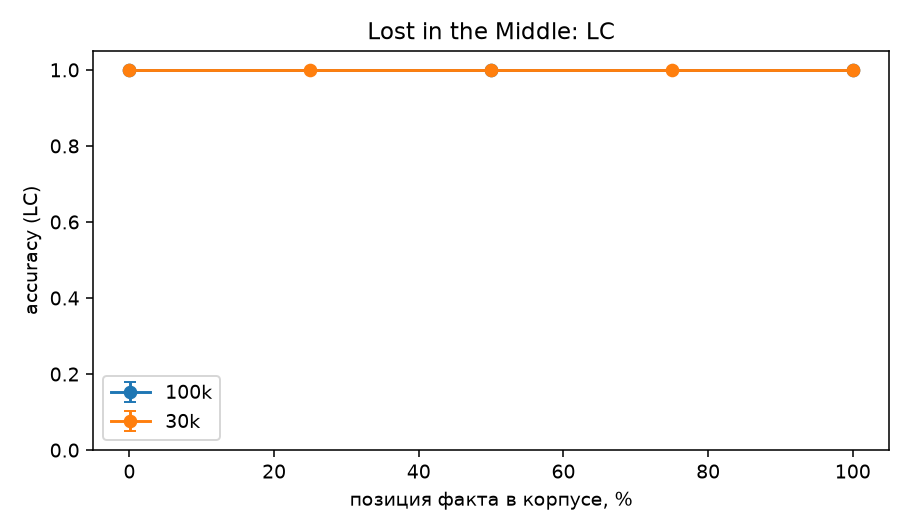
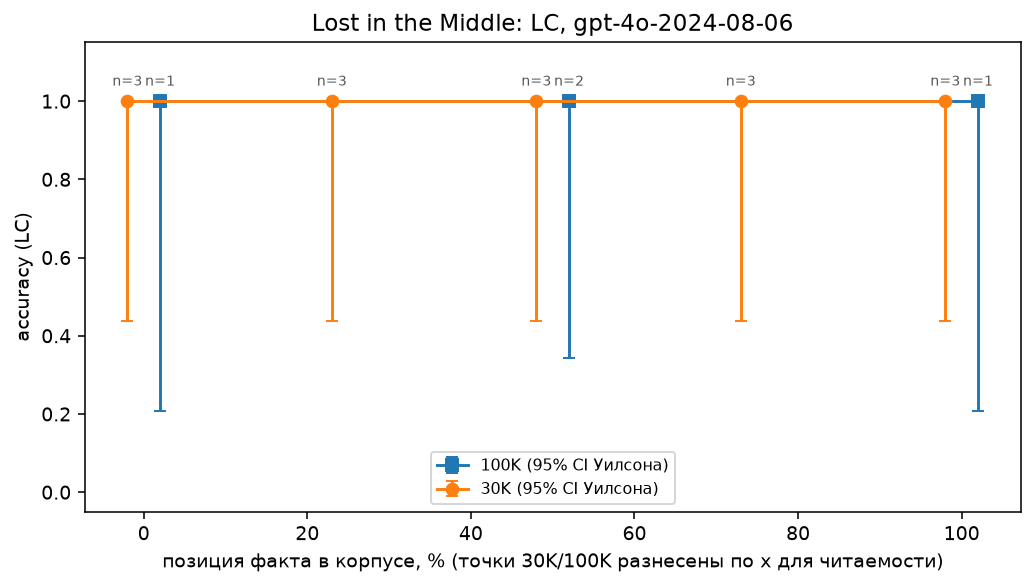
Judge calibration (n=40), charts per model, CI wording fixes

Changed region(s): [[0.0, 0.0, 1.0, 0.9925]]

diff --git a/src/eval/aggregate.py b/src/eval/aggregate.py
@@ -101,27 +101,95 @@ def summarize(df: pd.DataFrame, by: list[str]) -> pd.DataFrame:
     return out.reset_index()
 
 
+MODEL_ORDER = ["gpt-4o-2024-08-06", "gpt-4o-mini-2024-07-18"]
+SIZE_ORDER = ["8k", "30k", "100k"]
+METHOD_ORDER = ["lc", "bm25", "emb"]
+METHOD_LABEL = {"lc": "LC", "bm25": "BM25", "emb": "EMB"}
+METHOD_COLOR = {"lc": "#4C72B0", "bm25": "#DD8452", "emb": "#55A868"}
+ZERO_MARK_H = 0.02   # высота видимого столбика-маркера для accuracy == 0 (иначе bar высотой 0 не виден)
+
+
+def _models_present(df: pd.DataFrame) -> list[str]:
+    have = set(df["model"].unique())
+    return [m for m in MODEL_ORDER if m in have] + sorted(have - set(MODEL_ORDER))
+
+
+def _bar_panel(ax, sub: pd.DataFrame, value_col: str, sizes: list[str], methods: list[str],
+               log: bool = False, no_data_y: float | None = None) -> None:
+    """Сгруппированные столбцы method x size с явной отметкой нулей и отсутствующих данных.
+
+    На линейной шкале accuracy=0 рисуется видимым коротким столбиком с подписью «0.00»
+    (столбик высотой 0 иначе не виден и неотличим от «нет данных»). Если ячейки method x size
+    вообще нет в данных ИЛИ значение NaN (например $/correct при n_correct=0) — подпись
+    «нет данных» вместо столбика.
+    """
+    n_m = len(methods)
+    width = 0.8 / n_m
+    for mi, method in enumerate(methods):
+        for si, size in enumerate(sizes):
+            xpos = si + (mi - (n_m - 1) / 2) * width
+            row = sub[(sub["size"] == size) & (sub["method"] == method)]
+            val = row[value_col].iloc[0] if not row.empty else np.nan
+            if row.empty or pd.isna(val):
+                y = no_data_y if no_data_y is not None else (0.03 if not log else ax.get_ylim()[0])
+                ax.text(xpos, y, "нет данных", ha="center", va="bottom", fontsize=6.5,
+                        rotation=90, color="#888888")
+                continue
+            if not log and val == 0:
+                ax.bar(xpos, ZERO_MARK_H, width=width * 0.9, color=METHOD_COLOR[method])
+                ax.text(xpos, ZERO_MARK_H + 0.015, "0.00", ha="center", va="bottom", fontsize=7)
+            else:
+                ax.bar(xpos, val, width=width * 0.9, color=METHOD_COLOR[method])
+    ax.set_xlim(-0.5, len(sizes) - 0.5)   # фиксируем ширину панели независимо от того, что отрисовано
+    ax.set_xticks(range(len(sizes)))
+    ax.set_xticklabels([s.upper() for s in sizes])
+
+
+def _method_legend(fig) -> None:
+    handles = [plt.Rectangle((0, 0), 1, 1, color=METHOD_COLOR[m]) for m in METHOD_ORDER]
+    fig.legend(handles, [METHOD_LABEL[m] for m in METHOD_ORDER], loc="upper center",
+               ncol=len(METHOD_ORDER), bbox_to_anchor=(0.5, 1.02), frameon=False)
+
+
 def charts(df: pd.DataFrame):
     (RES / "charts").mkdir(parents=True, exist_ok=True)
     main_ = df[(df.get("target_pct").isna() if "target_pct" in df else True) & df.k_label.isna() | df.method.ne("lc") & df.k_label.eq(8)]
     main_ = main_[main_.get("target_pct", pd.Series(index=main_.index, dtype=float)).isna()] if "target_pct" in main_ else main_
     if main_.empty:
         return
-    s = summarize(main_, ["size", "method", "type"])
-    fig, ax = plt.subplots(1, 3, figsize=(13, 3.8), sharey=True)
-    for a, t in zip(ax, ["T1", "T2", "T3"]):
-        piv = s[s.type == t].pivot(index="size", columns="method", values="accuracy").reindex([x for x in ["8k", "30k", "100k"] if x in set(s["size"])])
-        piv.plot.bar(ax=a, rot=0, width=0.75)
-        a.set_title(t); a.set_ylim(0, 1.05); a.set_xlabel("")
-    ax[0].set_ylabel("accuracy")
-    fig.suptitle("Accuracy по размеру корпуса и типу вопроса"); fig.tight_layout()
-    fig.savefig(RES / "charts/accuracy_by_type.png", dpi=140); plt.close(fig)
+    models = _models_present(main_)
 
-    s2 = summarize(main_, ["size", "method"])
-    fig, a = plt.subplots(figsize=(6.5, 3.8))
-    s2.pivot(index="size", columns="method", values="usd_per_correct").reindex([x for x in ["8k", "30k", "100k"] if x in set(s2["size"])]).plot.bar(ax=a, rot=0, logy=True)
-    a.set_ylabel("$ на один верный ответ (лог.)"); a.set_title("$/correct"); fig.tight_layout()
-    fig.savefig(RES / "charts/usd_per_correct.png", dpi=140); plt.close(fig)
+    # Accuracy по размеру корпуса и типу вопроса: строка на модель, столбец на тип вопроса.
+    s = summarize(main_, ["model", "size", "method", "type"])
+    sizes = [x for x in SIZE_ORDER if x in set(s["size"])]
+    fig, ax = plt.subplots(len(models), 3, figsize=(13, 3.8 * len(models)), sharey=True, squeeze=False)
+    for ri, model in enumerate(models):
+        for ci, t in enumerate(["T1", "T2", "T3"]):
+            a = ax[ri][ci]
+            sub = s[(s.model == model) & (s.type == t)]
+            _bar_panel(a, sub, "accuracy", sizes, METHOD_ORDER)
+            a.set_title(f"{model} — {t}", fontsize=10)
+            a.set_ylim(0, 1.08)
+        ax[ri][0].set_ylabel("accuracy")
+    fig.suptitle("Accuracy по размеру корпуса, типу вопроса и модели", y=1.08 if len(models) == 1 else 1.04)
+    _method_legend(fig)
+    fig.tight_layout(rect=(0, 0, 1, 0.92 if len(models) == 1 else 0.95))
+    fig.savefig(RES / "charts/accuracy_by_type.png", dpi=140, bbox_inches="tight"); plt.close(fig)
+
+    # $/correct по размеру корпуса: панель на модель.
+    s2 = summarize(main_, ["model", "size", "method"])
+    fig, ax2 = plt.subplots(1, len(models), figsize=(6.5 * len(models), 3.8), squeeze=False)
+    for ci, model in enumerate(models):
+        a = ax2[0][ci]
+        sub = s2[s2.model == model]
+        a.set_yscale("log")
+        _bar_panel(a, sub, "usd_per_correct", sizes, METHOD_ORDER, log=True, no_data_y=sub["usd_per_correct"].min(skipna=True) or 1e-4)
+        a.set_title(f"{model}", fontsize=10)
+        a.set_ylabel("$ на один верный ответ (лог.)" if ci == 0 else "")
+    fig.suptitle("$/correct по размеру корпуса и модели", y=1.12)
+    _method_legend(fig)
+    fig.tight_layout(rect=(0, 0, 1, 0.82))
+    fig.savefig(RES / "charts/usd_per_correct.png", dpi=140, bbox_inches="tight"); plt.close(fig)
 
 
 def position_chart(df: pd.DataFrame):
@@ -130,12 +198,34 @@ def position_chart(df: pd.DataFrame):
         return
     s = summarize(p, ["model", "size", "target_pct"])
     s.to_csv(RES / "summary_position.csv", index=False)
-    fig, a = plt.subplots(figsize=(6.5, 3.8))
-    for size, g in s.groupby("size"):
-        a.errorbar(g.target_pct, g.accuracy, yerr=g.accuracy_std, marker="o", label=size, capsize=3)
-    a.set_xlabel("позиция факта в корпусе, %"); a.set_ylabel("accuracy (LC)"); a.set_ylim(0, 1.05); a.legend()
-    a.set_title("Lost in the Middle: LC"); fig.tight_layout()
-    fig.savefig(RES / "charts/position_curve.png", dpi=140); plt.close(fig)
+
+    models = _models_present(s)
+    offsets = {"30k": -2.0, "100k": 2.0}         # сдвиг по x (в п.п.), чтобы точки 30K/100K не сливались
+    markers = {"30k": "o", "100k": "s"}
+    for model in models:
+        sm = s[s.model == model]
+        if sm.empty:
+            continue
+        fig, a = plt.subplots(figsize=(7.5, 4.3))
+        for size, g in sm.groupby("size"):
+            g = g.sort_values("target_pct")
+            x = g.target_pct + offsets.get(size, 0.0)
+            yerr = np.vstack([
+                (g.accuracy - g.acc_ci_low).clip(lower=0).to_numpy(),
+                (g.acc_ci_high - g.accuracy).clip(lower=0).to_numpy(),
+            ])
+            a.errorbar(x, g.accuracy, yerr=yerr, marker=markers.get(size, "o"), linestyle="-",
+                       label=f"{size.upper()} (95% CI Уилсона)", capsize=3)
+            # n вопросов меняется от точки к точке (не один факт на каждой позиции) —
+            # поэтому подписываем n у каждой точки отдельно, а не одним числом в легенде.
+            for xi, yi, ni in zip(x, g.accuracy, g.n_questions):
+                a.annotate(f"n={int(ni)}", (xi, yi), textcoords="offset points", xytext=(0, 8),
+                           ha="center", fontsize=7, color="#555555")
+        a.set_xlabel("позиция факта в корпусе, % (точки 30K/100K разнесены по x для читаемости)")
+        a.set_ylabel("accuracy (LC)"); a.set_ylim(-0.05, 1.15); a.legend(fontsize=8, loc="lower center")
+        a.set_title(f"Lost in the Middle: LC, {model}"); fig.tight_layout()
+        suffix = "" if model == models[0] else f"_{model.split('-')[0]}{'mini' if 'mini' in model else ''}"
+        fig.savefig(RES / f"charts/position_curve{suffix}.png", dpi=140, bbox_inches="tight"); plt.close(fig)
 
 
 def main():
@@ -161,7 +251,7 @@ def main():
     charts_df = base_
     try:
         charts_df = charts_df.assign(k_label=charts_df.k_label.where(charts_df.method.ne("lc"), np.nan))
-        charts(charts_df[charts_df.model.str.startswith('gpt-4o-mini')])
+        charts(charts_df)  # обе модели — отдельные панели/подписи внутри charts()
     except Exception as e:  # графики не должны ломать таблицы
         print("charts:", e)
 

diff --git a/docs/INTERIM_TALK.md b/docs/INTERIM_TALK.md
@@ -53,23 +53,32 @@ gpt-4o-mini.
 вопросов. На gpt-4o, например на 30K: LC 0.94 [0.74–0.99], BM25 1.00 [0.82–1.00], EMB 0.89
 [0.67–0.97] — интервалы перекрываются, то есть на этой выборке разница в точности между методами
 статистически не доказана. Но по стоимости разница однозначна: BM25 на 30K — $0.007 за верный
-ответ, LC — $0.081, в 11 раз дороже. На gpt-4o-mini картина другая: LC даёт 0.27 [0.15–0.43],
-BM25 — 0.69 [0.53–0.82] — интервалы НЕ перекрываются, разница значима. То есть на слабой модели
-RAG не просто дешевле, а заметно точнее.»
+ответ, LC — $0.081, в 11 раз дороже. На gpt-4o-mini картина другая: на 30K LC даёт 0.27
+[0.15–0.43], BM25 — 0.69 [0.53–0.82] — интервалы НЕ перекрываются, разница значима. На 8K
+разница в ту же сторону (0.20 против 0.70), но интервалы перекрываются ([0.06–0.51] и
+[0.40–0.89]) — там значимость не доказана, выборка (n=10) слишком мала. То есть на слабой
+модели RAG заметно точнее — но это подтверждено статистически только на 30K, не на 8K.»
 
 ---
 
 ## Экран 4 (2:30–3:30) — графики
 
-**Показать:** `results/charts/accuracy_by_type.png`, `results/charts/usd_per_correct.png`,
-`results/charts/position_curve.png`.
+**Показать:** `results/charts/accuracy_by_type.png` (обе модели: верхний ряд панелей — gpt-4o,
+нижний — gpt-4o-mini, заголовок каждой панели называет модель и тип вопроса),
+`results/charts/usd_per_correct.png` (обе модели: левая панель gpt-4o, правая — gpt-4o-mini),
+`results/charts/position_curve.png` (только gpt-4o — для gpt-4o-mini позиционный эксперимент
+не делали).
 
 **Сказать:** «На графике accuracy по типам вопросов видно, где метод проваливается — это
-видно нагляднее, чем в таблице. На графике $/correct (лог. шкала) разрыв между LC и RAG растёт
-с размером корпуса — RAG-контекст остаётся около 2.5K токенов независимо от размера корпуса, а
-LC растёт линейно. На позиционной кривой (gpt-4o, LC) — accuracy 1.0 на всех позициях факта от
-0 до 100% длины контекста, для 30K и 100K: эффекта Lost in the Middle не нашли, но выборка там
-маленькая — 3 факта на 30K, 1 факт на 100K, это не финальный результат.»
+видно нагляднее, чем в таблице; верхний ряд — gpt-4o, нижний — gpt-4o-mini, и разница между
+рядами сама по себе показательна: у gpt-4o-mini нулевые столбики LC подписаны «0.00» явно,
+чтобы не путать с отсутствием данных. На графике $/correct (лог. шкала, тоже отдельные панели
+по моделям) разрыв между LC и RAG растёт с размером корпуса — RAG-контекст остаётся около 2.5K
+токенов независимо от размера корпуса, а LC растёт линейно. На позиционной кривой — только
+gpt-4o, LC — accuracy 1.0 на всех позициях факта от 0 до 100% длины контекста, для 30K и 100K
+(точки разнесены по оси x, чтобы не накладывались, у каждой точки подписано число вопросов n):
+эффекта Lost in the Middle не нашли, но выборка там маленькая — 3 факта на 30K, 1 факт на 100K
+(на одной из позиций — 2 факта), это не финальный результат.»
 
 ---
 
@@ -78,11 +87,13 @@ LC растёт линейно. На позиционной кривой (gpt-4o
 **Показать:** раздел «Выводы» `REPORT.md`.
 
 **Сказать:** «Практический вывод для KOZ AI: если целевая модель уровня gpt-4o — разница в
-точности между LC и RAG на наших данных не доказана, поэтому решение определяет цена, и BM25
-выигрывает в разы. Если модель слабее, как gpt-4o-mini — RAG не только дешевле, но и значимо
-точнее; у LC на этой модели мы отдельно нашли массовые отказы отвечать даже когда факт точно
-есть в контексте — до 100% отказов на простых вопросах при наличии факта в промпте. Мы
-разобрали это как отдельную диагностику (`results/diagnosis_abstain_T1.md`): отказ появляется
+точности между LC и RAG на наших данных не доказана ни на одном размере корпуса, поэтому
+решение определяет цена, и BM25 выигрывает в разы. Если модель слабее, как gpt-4o-mini — RAG
+дешевле всегда, а точнее статистически значимо на 30K (на 8K тоже точнее по центральной
+оценке, но доказательно это не подтверждено — выборка мала); у LC на этой модели мы отдельно
+нашли массовые отказы отвечать даже когда факт точно есть в контексте — до 100% отказов на
+простых вопросах при наличии факта в промпте. Мы разобрали это как отдельную диагностику
+(`results/diagnosis_abstain_T1.md`): отказ появляется
 в многодокументном контексте и не появляется на одном документе той же длины — это сузило
 гипотезу, но механизм до конца не доказан, проверено только на 2 вопросах из 60.»
 
@@ -95,8 +106,8 @@ LC растёт линейно. На позиционной кривой (gpt-4o
 **Сказать:** «Честно про ограничения. Бюджет: потратили ≈$6.05 против плана $5 — основной
 прогон $6.039, плюс $0.006 на точечную диагностику отказов отдельным счётчиком. Доверительные
 интервалы у gpt-4o широкие из-за одного повтора и маленькой выборки на 100K — 9 вызовов LC.
-Судья откалиброван пока только разметкой Claude, не человека — это помечено как предварительное,
-слепой файл для ручной разметки уже готов, но не заполнен. Не сделано: позиция gold-чанка в
-RAG top-k (P2), гибридный поиск с реранкером, Ragas, роутер по типу вопроса, сравнение с
-локальным backend, демо-видео. План до финальной сдачи: закрыть ручную калибровку судьи, при
-остатке бюджета — добрать выборку на 100K и, если останется время, роутер.»
+Калибровка судьи сделана: 40 примеров размечены вслепую от вердиктов судьи — с помощью Claude
+и проверкой автором; согласие 85% (κ=0.78, по «верно/неверно» 100%), выборка небольшая (n=40).
+Не сделано: позиция gold-чанка в RAG top-k (P2), гибридный поиск с реранкером, Ragas, роутер по
+типу вопроса, сравнение с локальным backend, демо-видео. План до финальной сдачи: при остатке
+бюджета — добрать выборку на 100K и, если останется время, роутер.»
